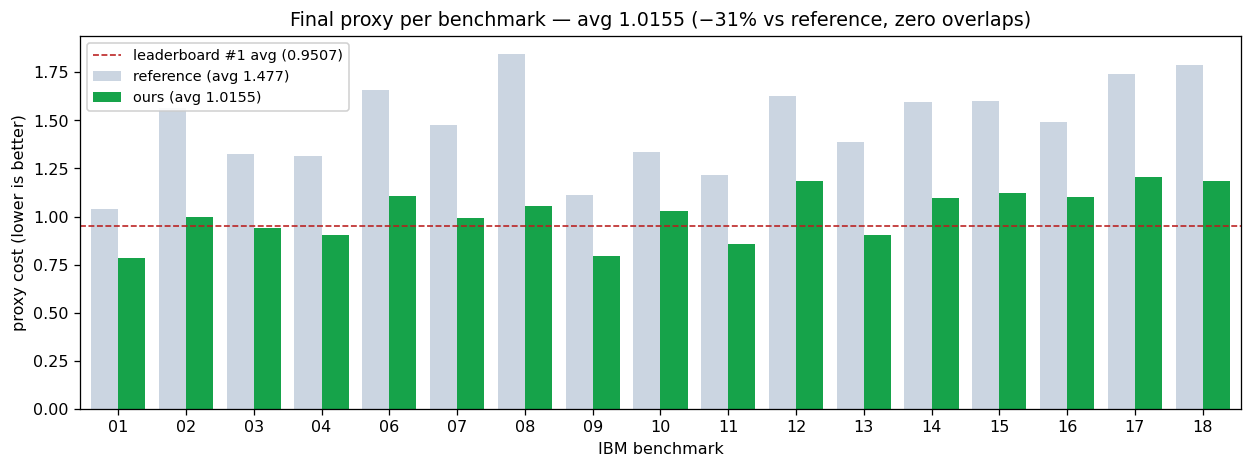
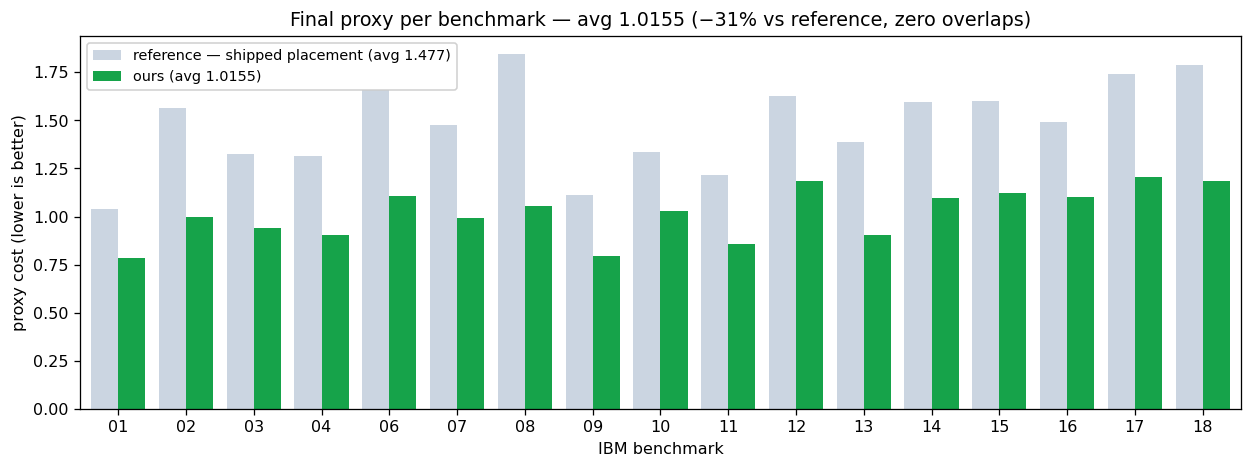
Gifs: add synced proxy-score panel (dot tracks true proxy per frame via fast FastEval, exact to ~1e-5); generalize to load each winner's own config; expand to 4 curated designs (ibm01/09/17/18). Bar chart: drop leaderboard line (only an average exists, not per-benchmark) and label reference as the s

Changed region(s): [[0.0623, 0.0897, 0.3738, 0.2393], [0.0623, 0.4786, 0.9657, 0.5085], [0.3115, 0.1795, 0.3738, 0.2094]]

diff --git a/notes/solution.html b/notes/solution.html
@@ -129,13 +129,17 @@ connected arrangement — shorter wirelength at the same zero-overlap legality.<
 <img class="fig half" src="fig_layout_ibm18.png" alt="ibm18 reference vs ours">
 
 <h3>The optimization in motion</h3>
-<p>The differentiable global stage starts from a random spread and, under the back-loaded schedule, pulls
-connected macros together; the layout is then legalized to zero overlap and greedy-polished against the
-exact metric. Both animations replay the <i>actual winning run</i> (config 221 with its winning seed) and
-close on the saved final placement. Left: <b>ibm01</b>, a small design (final proxy 0.784). Right:
-<b>ibm17</b>, a large, congestion-bound design (1.205) — where the macros visibly negotiate a denser canvas.</p>
+<p>Each animation replays that benchmark's <i>actual winning run</i> — its winning config and random seed —
+and closes on the saved final placement. <b>Left panel:</b> the differentiable global stage starts from a
+random spread and, under the back-loaded schedule, pulls connected macros together; the layout is then
+legalized to zero overlap and greedy-polished against the exact metric. <b>Right panel:</b> the true proxy
+cost at every frame, with a moving dot — you can watch it plunge as the layout clusters, then step down
+again in the legalize + greedy stage (shaded). The four span the design space: <b>ibm01</b> (small, 0.784),
+<b>ibm09</b> (medium, 0.797), <b>ibm17</b> (large, congestion-bound, 1.205), <b>ibm18</b> (large, 1.185).</p>
 <img class="fig half" src="opt_ibm01.gif" alt="ibm01 optimization animation">
+<img class="fig half" src="opt_ibm09.gif" alt="ibm09 optimization animation">
 <img class="fig half" src="opt_ibm17.gif" alt="ibm17 optimization animation">
+<img class="fig half" src="opt_ibm18.gif" alt="ibm18 optimization animation">
 
 <h2>What made the difference: multi-start beats a lucky seed</h2>
 <p>Single-seed scores carry ~2% noise, larger than the gap between good configurations. Ranking configs by

diff --git a/scripts/make_gif.py b/scripts/make_gif.py
@@ -1,27 +1,32 @@
-"""Animate the personal-best optimization for one benchmark: the differentiable
-global placement trajectory (spread -> clustered) using the tuned config, then
-the legalization snap and the greedy-polished final as closing frames.
+"""Animate the actual winning run for one benchmark, side-by-side with a live
+proxy-score curve whose dot tracks the placement.
+
+Left panel: the differentiable global-placement trajectory (spread -> clustered)
+replayed from the winning candidate's exact init (config + seed that produced the
+reported score), then the legalization snap and the SAVED greedy-polished final.
+Right panel: the true proxy cost at every frame, with a moving dot.
 
 Saves notes/opt_<nm>.gif. Usage: python make_gif.py [ibm01]
 """
-import sys, os, json
+import sys, os, json, glob
 import matplotlib; matplotlib.use("Agg")
 import matplotlib.pyplot as plt
 from matplotlib.patches import Rectangle
 import matplotlib.cm as cm, matplotlib.colors as mcolors
-import numpy as np, torch
+import numpy as np, torch, optuna
 from PIL import Image
 sys.path.insert(0, "/home/laz/partcl/my-macro-placer")
 from macro_place.loader import load_benchmark_from_dir
+from macro_place.objective import compute_proxy_cost
 from placers.fast_eval import FastEval
 from placers.legalizer import legalize
-from placers.local_search import optimize_fast
 from placers.analytical import DifferentiablePlacer, proxy_loss
 
 CHAL = "/home/laz/partcl/macro-place-challenge-2026"
 NOTES = "/home/laz/partcl/my-macro-placer/notes"
+FR = f"{NOTES}/fullrun"
 nm = sys.argv[1] if len(sys.argv) > 1 else "ibm01"
-STRIDE = 80          # snapshot every STRIDE gradient steps
+WIN_ITERS = 15000     # iters used by the full run (fullrun_place --iters 15000)
 
 
 def hp_from_params(p):
@@ -38,77 +43,97 @@ def hp_from_params(p):
 
 b, plc = load_benchmark_from_dir(f"{CHAL}/external/MacroPlacement/Testcases/ICCAD04/{nm}")
 fe = FastEval(b, plc); P = DifferentiablePlacer(fe); sz = b.macro_sizes.numpy(); nh = b.num_hard_macros
-hp = hp_from_params(json.load(open(f"{NOTES}/bayes_final.json"))["params"])
-loss_fn = proxy_loss(gamma_hi_mult=hp["gamma"], lam_d0=hp["lam_d_end"] * hp["lam_d_ratio"],
-                     lam_d1=hp["lam_d_end"], lam_c0=hp["lam_c0"], lam_c1=hp["lam_c1"],
-                     tau_d=hp["tau_d"], tau_c=hp["tau_c"], target=hp["target"], topk="lapsum",
-                     dmode=hp["dmode"], lam_wl0=hp["lam_wl0"], lam_wl1=1.0, ramp_p=hp["ramp_p"],
-                     legalize_steps=hp["lsteps"])
 
-# --- discover the ACTUAL winning candidate for this benchmark, so the animation
-# reproduces the run that produced the reported score (winning config + init seed)
-# and closes on the SAVED winning placement rather than an unrelated re-polish ---
-import glob
-FR = f"{NOTES}/fullrun"
-WIN_ITERS = 15000     # iters used by the full run (fullrun_place --iters 15000)
+
+def proxy_of(pos):
+    # FastEval proxy (validated exact to ~1e-5 vs compute_proxy_cost) — ~ms/frame so
+    # the per-frame score curve is cheap even on the large designs.
+    p = pos[:, :2] if pos.shape[1] > 2 else pos
+    return float(fe.wirelength_cost(p) + 0.5 * fe.density_cost(p) + 0.5 * fe.congestion_cost(p))
+
+
+# --- discover the winning candidate and load ITS config (may not be bayes_final) ---
 cands = [(json.load(open(f))["final"], json.load(open(f))["idx"])
          for f in glob.glob(f"{FR}/{nm}_p*_final.json")
          if os.path.exists(f.replace("_final.json", "_polished.npz"))]
 win_final, win_idx = min(cands)
 wmeta = {e["idx"]: e for e in json.load(open(f"{FR}/{nm}_meta.json"))}[win_idx]
-assert wmeta["trial"] == json.load(open(f"{NOTES}/bayes_final.json"))["trial"], \
-    f"{nm} winner is trial {wmeta['trial']}, not the bayes_final config — load that config instead"
+win_trial = wmeta["trial"]
 init_seed = wmeta["seed"] * 101 + wmeta["config_i"]   # exactly what fullrun_place passed to P.place
-iters = WIN_ITERS
-STRIDE = max(80, iters // 60)     # ~60 trajectory frames regardless of iters
+study = optuna.load_study(study_name="diffplace", storage=f"sqlite:///{NOTES}/bayes.db")
+wp = {t.number: t for t in study.trials}[win_trial].params
+hp = hp_from_params(wp)
+loss_fn = proxy_loss(gamma_hi_mult=hp["gamma"], lam_d0=hp["lam_d_end"] * hp["lam_d_ratio"],
+                     lam_d1=hp["lam_d_end"], lam_c0=hp["lam_c0"], lam_c1=hp["lam_c1"],
+                     tau_d=hp["tau_d"], tau_c=hp["tau_c"], target=hp["target"], topk="lapsum",
+                     dmode=hp["dmode"], lam_wl0=hp["lam_wl0"], lam_wl1=1.0, ramp_p=hp["ramp_p"],
+                     legalize_steps=hp["lsteps"])
+print(f"{nm}: winning idx={win_idx} trial={win_trial} seed={wmeta['seed']} "
+      f"init_seed={init_seed} final={win_final:.4f}", flush=True)
 
-# --- replay the winning global-placement trajectory from its exact init, snapshotting ---
+# --- replay the winning global-placement trajectory from its exact init ---
+iters = WIN_ITERS
+STRIDE = max(80, iters // 55)     # ~55 trajectory frames regardless of iters
 g = torch.Generator(device="cpu").manual_seed(init_seed)
 c0 = torch.rand(b.num_macros, 2, generator=g)
 c0[:, 0] = c0[:, 0] * (P.W - 2) + 1; c0[:, 1] = c0[:, 1] * (P.H - 2) + 1
 coord = c0.to(P.dev).requires_grad_(True)
 opt = torch.optim.Adam([coord], lr=hp["lr"])
-frames = []   # (positions, label)
+frames = []   # (positions, label, proxy)
 for it in range(iters):
     t = it / iters
     opt.zero_grad(); loss = loss_fn(P, coord, t); loss.backward(); opt.step()
     with torch.no_grad():
         coord[:, 0].clamp_(P.hw, P.W - P.hw); coord[:, 1].clamp_(P.hh, P.H - P.hh)
     if it % STRIDE == 0:
-        frames.append((coord.detach().cpu().numpy().copy(), f"global placement — step {it}/{iters}"))
+        pos = coord.detach().cpu().numpy().copy()
+        frames.append((pos, "global placement", proxy_of(pos)))
 
 # --- closing frames from the SAVED winning artifacts (the exact placement scoring win_final) ---
 diff_cand = np.load(f"{FR}/{nm}_p{win_idx}.npz")["placement"].astype(np.float64)
-frames.append((diff_cand.copy(), f"global placement — step {iters}/{iters}"))
+frames.append((diff_cand.copy(), "global placement (final)", proxy_of(diff_cand)))
 legal, _, _ = legalize(diff_cand, sz, nh, b.canvas_width, b.canvas_height, gap=0.01)
-frames.append((legal.copy(), "legalized (zero overlap)"))
+frames.append((legal.copy(), "legalized (zero overlap)", proxy_of(legal)))
 polished = np.load(f"{FR}/{nm}_p{win_idx}_polished.npz")["placement"].astype(np.float64)
-frames.append((polished.copy(), f"greedy-polished — proxy {win_final:.3f}"))
-print(f"{nm}: winning idx={win_idx} trial={wmeta['trial']} seed={wmeta['seed']} "
-      f"init_seed={init_seed} final={win_final:.4f}", flush=True)
+frames.append((polished.copy(), "greedy-polished (final)", win_final))
 
-# --- render frames to a GIF ---
+# --- render two-panel frames: placement (left) + live proxy curve (right) ---
 areas = sz[:nh, 0] * sz[:nh, 1]
-norm = mcolors.LogNorm(vmin=areas.min(), vmax=areas.max())
+cnorm = mcolors.LogNorm(vmin=areas.min(), vmax=areas.max())
+ys = [f[2] for f in frames]
+xs = list(range(len(frames)))
+n_detail = len(frames) - 2        # index where the detailed stage (legalize+polish) begins
+ymax = max(ys) * 1.03; ymin = min(ys) * 0.97
 imgs = []
-for pos, label in frames:
-    fig, ax = plt.subplots(figsize=(5, 5.2), constrained_layout=True)
-    ax.add_patch(Rectangle((0, 0), b.canvas_width, b.canvas_height, fill=False, ec="black", lw=1.2))
-    ax.scatter(pos[nh:, 0], pos[nh:, 1], s=2, c="0.7", alpha=0.35)
-    for i in range(nh):
-        w, h = sz[i]; x, y = pos[i]
-        ax.add_patch(Rectangle((x - w / 2, y - h / 2), w, h,
-                               facecolor=cm.viridis(norm(areas[i])), alpha=0.85, ec="none"))
-    ax.set_xlim(-1, b.canvas_width + 1); ax.set_ylim(-1, b.canvas_height + 1)
-    ax.set_aspect("equal"); ax.set_xticks([]); ax.set_yticks([])
-    ax.set_title(f"{nm}: {label}", fontsize=11)
+for i, (pos, label, py) in enumerate(frames):
+    fig, (axL, axR) = plt.subplots(1, 2, figsize=(9.6, 5.0),
+                                   gridspec_kw={"width_ratios": [1, 1]}, constrained_layout=True)
+    # left: placement
+    axL.add_patch(Rectangle((0, 0), b.canvas_width, b.canvas_height, fill=False, ec="black", lw=1.2))
+    axL.scatter(pos[nh:, 0], pos[nh:, 1], s=2, c="0.7", alpha=0.35)
+    for k in range(nh):
+        w, h = sz[k]; x, y = pos[k, 0], pos[k, 1]
+        axL.add_patch(Rectangle((x - w / 2, y - h / 2), w, h,
+                                facecolor=cm.viridis(cnorm(areas[k])), alpha=0.85, ec="none"))
+    axL.set_xlim(-1, b.canvas_width + 1); axL.set_ylim(-1, b.canvas_height + 1)
+    axL.set_aspect("equal"); axL.set_xticks([]); axL.set_yticks([])
+    axL.set_title(f"{nm}: {label}", fontsize=11)
+    # right: proxy curve with moving dot
+    axR.axvspan(n_detail - 0.5, len(frames) - 0.5, color="#fde68a", alpha=0.5, lw=0)
+    axR.plot(xs, ys, color="0.75", lw=1.3, zorder=1)
+    axR.plot(xs[:i + 1], ys[:i + 1], color="#2563eb", lw=1.8, zorder=2)
+    axR.scatter([i], [py], s=60, color="#dc2626", zorder=3, ec="white", lw=0.8)
+    axR.set_xlim(-0.5, len(frames) - 0.5); axR.set_ylim(ymin, ymax)
+    axR.set_xlabel("frame  (global placement → legalize + greedy)", fontsize=9)
+    axR.set_ylabel("true proxy cost", fontsize=10)
+    axR.set_title(f"proxy = {py:.3f}", fontsize=11)
+    axR.grid(alpha=0.25)
     fig.canvas.draw()
     imgs.append(Image.fromarray(np.asarray(fig.canvas.buffer_rgba())[..., :3].copy()))
     plt.close(fig)
 
-# hold the first and last frames longer
-durations = [90] * len(imgs)
-durations[0] = 700; durations[-1] = 2500; durations[-2] = 900
+durations = [110] * len(imgs)
+durations[0] = 700; durations[-1] = 2500; durations[-2] = 900; durations[-3] = 900
 imgs[0].save(f"{NOTES}/opt_{nm}.gif", save_all=True, append_images=imgs[1:],
              duration=durations, loop=0)
-print(f"saved notes/opt_{nm}.gif  ({len(imgs)} frames)")
+print(f"saved notes/opt_{nm}.gif  ({len(imgs)} frames, final proxy {win_final:.3f})")

diff --git a/scripts/plot_perbench.py b/scripts/plot_perbench.py
@@ -17,13 +17,14 @@ pb = {r["benchmark"]: min(r["best_after"], r["greedy_ref"]) for r in rep["rows"]
 
 ours = [pb[nm] for nm in order]
 refs = [ref[nm] for nm in order]
-avg_ours = float(np.mean(ours)); avg_ref = float(np.mean(refs)); lb1 = 0.9507
+avg_ours = float(np.mean(ours)); avg_ref = float(np.mean(refs))
 x = np.arange(len(order)); w = 0.4
 
+# NOTE: no leaderboard line here — the leaderboard only publishes an AVERAGE (0.9507),
+# not per-benchmark scores, so drawing it per-benchmark would be misleading.
 fig, ax = plt.subplots(figsize=(11, 4.2))
-ax.bar(x - w / 2, refs, w, label=f"reference (avg {avg_ref:.3f})", color="#cbd5e1")
+ax.bar(x - w / 2, refs, w, label=f"reference — shipped placement (avg {avg_ref:.3f})", color="#cbd5e1")
 ax.bar(x + w / 2, ours, w, label=f"ours (avg {avg_ours:.4f})", color="#16a34a")
-ax.axhline(lb1, ls="--", lw=1, color="#b91c1c", label=f"leaderboard #1 avg ({lb1})")
 ax.set_xticks(x); ax.set_xticklabels([nm.replace("ibm", "") for nm in order])
 ax.set_xlabel("IBM benchmark"); ax.set_ylabel("proxy cost (lower is better)")
 ax.set_title(f"Final proxy per benchmark — avg {avg_ours:.4f} (−{100*(1-avg_ours/avg_ref):.0f}% vs reference, zero overlaps)")

diff --git a/README.md b/README.md
@@ -120,10 +120,12 @@ Hard macros as rectangles (color = area); soft cell-clusters as light dots. The 
 
 ![ibm01 reference vs ours](notes/fig_layout_ibm01.png)
 
-The differentiable optimization in motion — random spread → clustered under the back-loaded schedule → legalized → greedy-polished. Each replays the actual winning run (config 221, winning seed) and ends on the saved final placement. Left/top **ibm01** (small, proxy 0.784); right/bottom **ibm17** (large, congestion-bound, 1.205).
+The differentiable optimization in motion, with a live proxy-score curve — random spread → clustered under the back-loaded schedule → legalized → greedy-polished. Each replays that benchmark's actual winning run (its winning config + seed) and ends on the saved final placement; the right panel's dot tracks the true proxy at every frame. Spanning the design space: **ibm01** (small, 0.784), **ibm09** (medium, 0.797), **ibm17** (large/congestion-bound, 1.205), **ibm18** (large, 1.185).
 
 ![ibm01 optimization](notes/opt_ibm01.gif)
+![ibm09 optimization](notes/opt_ibm09.gif)
 ![ibm17 optimization](notes/opt_ibm17.gif)
+![ibm18 optimization](notes/opt_ibm18.gif)
 
 ---
 
